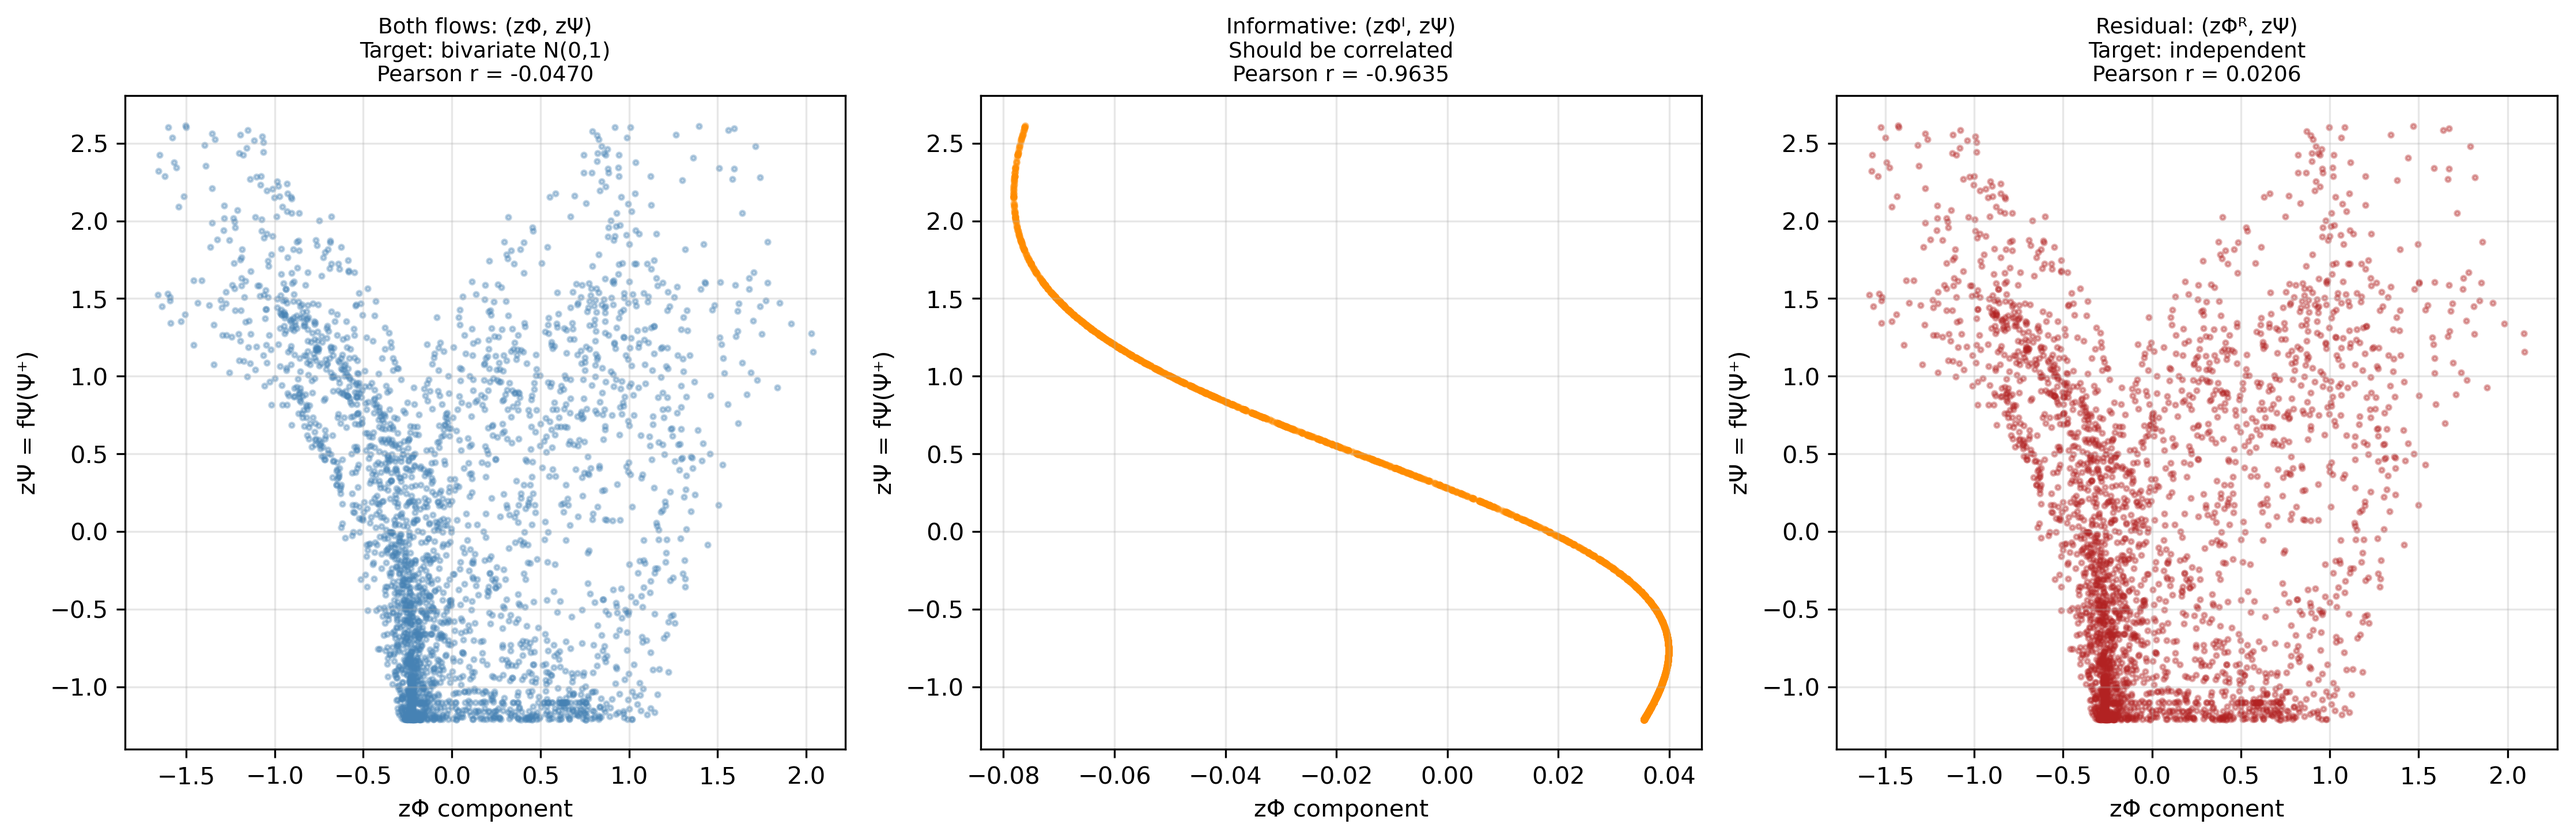
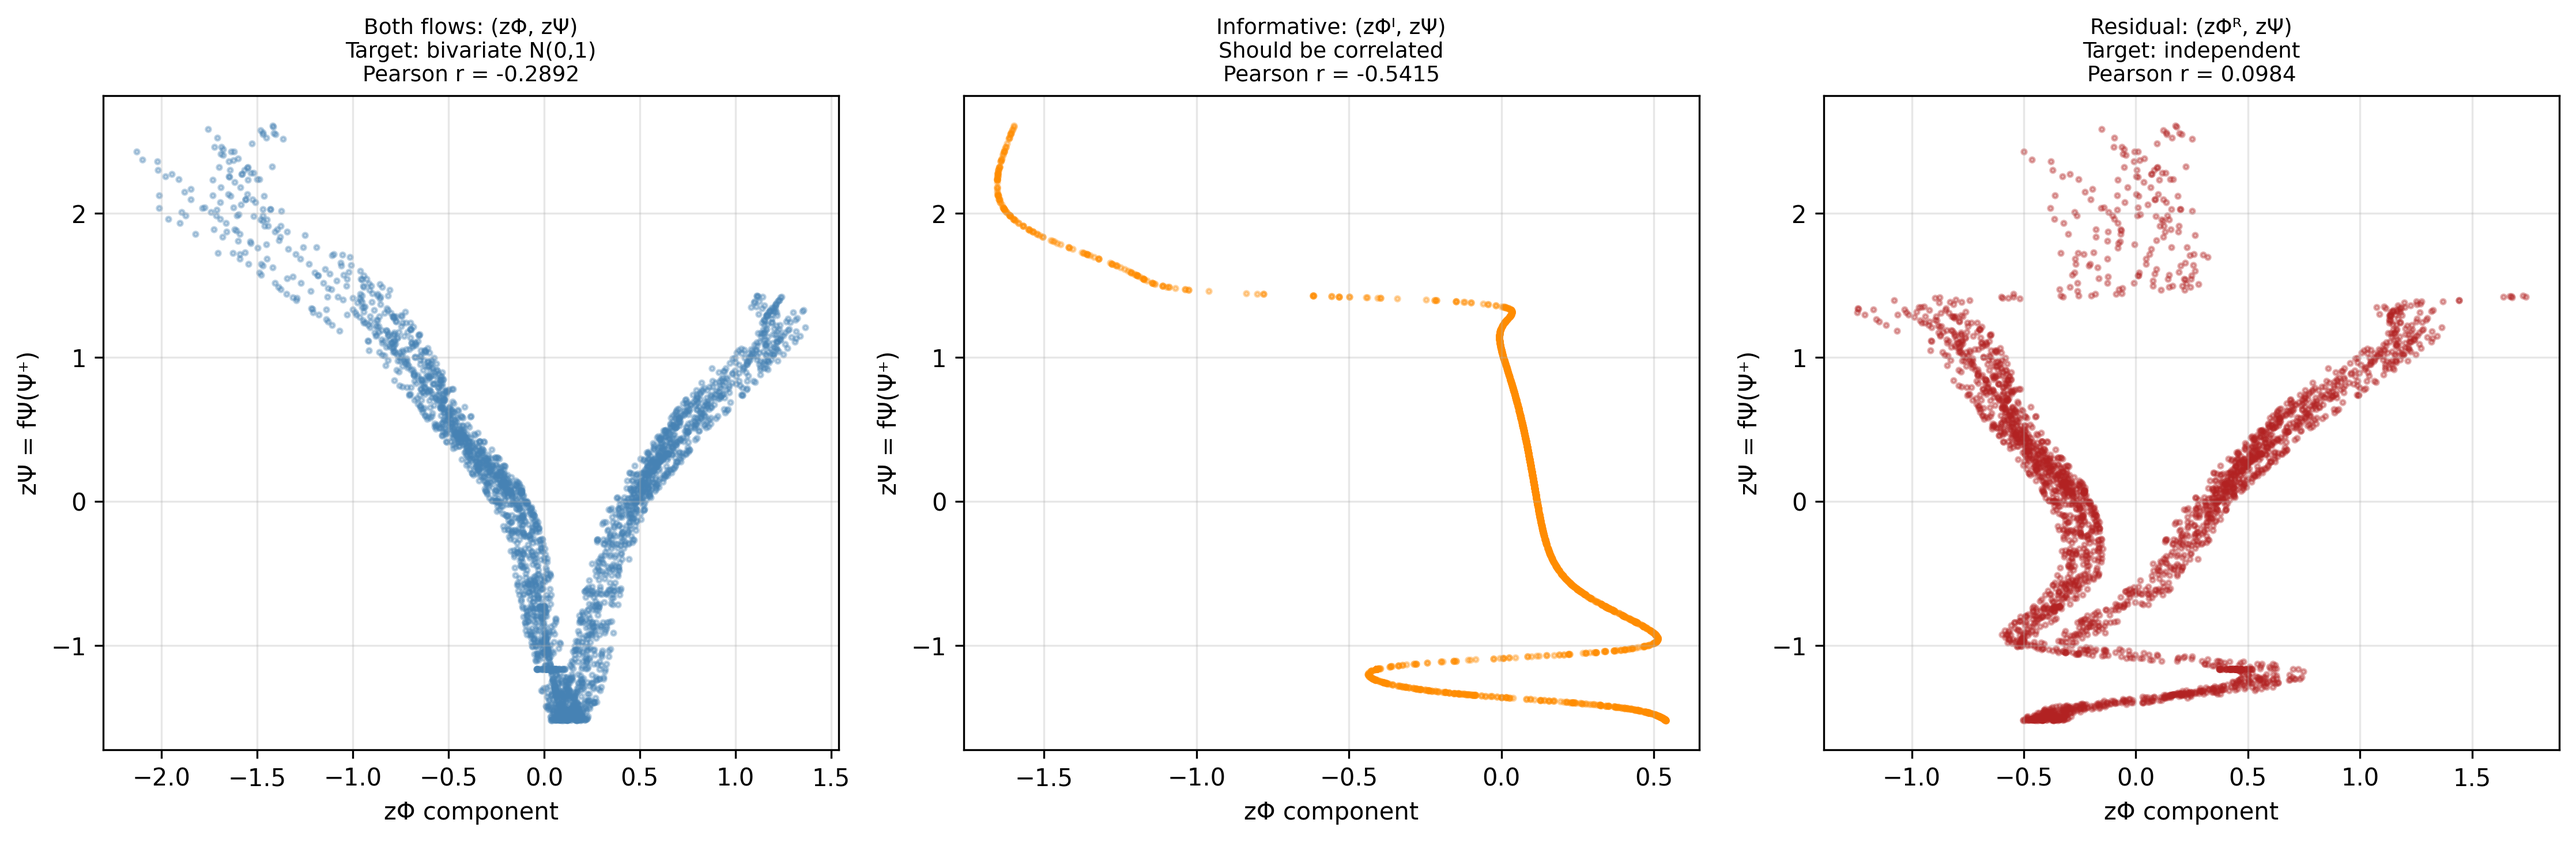
update latent guassian using toy problem in the paper

diff --git a/aind_decomposition_v2_glf.py b/aind_decomposition_v2_glf.py
@@ -20,13 +20,50 @@ import torch.nn as nn
 import torch.nn.functional as F
 import torch.optim as optim
 
-from toy_settings_v2 import (
+# from toy_settings_v2 import (
+#     phi_func,
+#     phi_informative_true,
+#     phi_residual_true,
+#     psi_plus_func,
+# )
+from toy_settings import (
     phi_func,
-    phi_informative_true,
-    phi_residual_true,
     psi_plus_func,
+    f_func,
+    g_func,
+    F_analytical,
 )
-from aind_decomposition_v2 import evaluate_decomposition
+
+from sklearn.feature_selection import mutual_info_regression
+from sklearn.metrics import mean_squared_error
+
+
+def evaluate_decomposition(Phi, Psi_plus, Phi_I, Phi_R, Phi_I_true=None):
+    """
+    Evaluate aIND decompositionF
+    -------
+    mutual_information : I(Phi_I; Phi_R) via sklearn  (lower = more independent)
+    residual_energy    : MSE(Phi, Phi_I)              (lower = smaller residual)
+    mi_phiI_psi        : MI(Phi_I, Psi+)              (higher = informative)
+    mi_phiR_psi        : MI(Phi_R, Psi+)              (lower  = non-informative)
+    gt_error           : MSE(Phi_I, Phi_I_true)       (lower = closer to ground truth)
+    """
+    metrics = {}
+    metrics["mutual_information"] = mutual_info_regression(
+        Phi_R.reshape(-1, 1), Phi_I, random_state=42
+    )[0]
+    metrics["residual_energy"] = mean_squared_error(Phi, Phi_I)
+    metrics["mi_phiI_psi"] = mutual_info_regression(
+        Phi_I.reshape(-1, 1), Psi_plus, random_state=42
+    )[0]
+    metrics["mi_phiR_psi"] = mutual_info_regression(
+        Phi_R.reshape(-1, 1), Psi_plus, random_state=42
+    )[0]
+    metrics["gt_error"] = (
+        mean_squared_error(Phi_I_true, Phi_I) if Phi_I_true is not None else float("nan")
+    )
+    metrics["total_loss"] = metrics["mutual_information"] + metrics["residual_energy"]
+    return metrics
 
 
 # ---------------------------------------------------------------------------
@@ -611,7 +648,7 @@ def visualize_decomposition(
     output_dir: str = "results_v2_glf",
     prefix:     str = "aind_v2_glf",
 ):
-    """2 x 3 field comparison with shared colorbar, plus scatter diagnostics."""
+    """2 x 3 field comparison with individual colorbars per subplot, plus scatter diagnostics."""
     os.makedirs(output_dir, exist_ok=True)
 
     if Phi_I.ndim == 1:
@@ -629,17 +666,15 @@ def visualize_decomposition(
         "\u03a6\u1d3f (Reconstructed Residual)\n\u03a6\u1d3f = \u03a6 \u2212 \u03a6\u1d35",
     ]
     fields = [Phi, Phi_I_true, Phi_I, Psi_plus, Phi_R_true, Phi_R]
-    vabs   = max(np.abs(f).max() for f in fields)
 
     for ax, field, title in zip(axes.flat, fields, titles):
         im = ax.imshow(field, origin="lower", cmap="RdBu",
-                       extent=[0, 1, 0, 2], aspect=0.5,
-                       vmin=-vabs, vmax=vabs)
+                       extent=[0, 1, 0, 2], aspect=0.5)
         ax.set_title(title, fontsize=10)
         ax.set_xlabel("x")
         ax.set_ylabel("y")
+        plt.colorbar(im, ax=ax, fraction=0.046)
 
-    fig.colorbar(im, ax=axes.ravel().tolist(), shrink=0.6, label="Field value")
     fig.tight_layout()
     fields_path = os.path.join(output_dir, f"{prefix}_fields.png")
     fig.savefig(fields_path, dpi=300, bbox_inches="tight")
@@ -705,11 +740,11 @@ def main(
     n_layers:       int   = 3,
     use_gating:     bool  = False,
     # Training
-    num_epochs:     int   = 2000,
-    lr:             float = 1e-3,
+    num_epochs:     int   = 1000,
+    lr:             float = 5e-3,
     # Loss weights
     lambda_pred:    float = 1.0,
-    lambda_ind:     float = 1.0,
+    lambda_ind:     float = 5.0,
     lambda_min:     float = 0.0,
     # HSIC
     hsic_sigma:     float = 1.0,
@@ -730,8 +765,10 @@ def main(
 
     Phi        = phi_func(X, Y, t)
     Psi_plus   = psi_plus_func(X, Y, t, deltaT=0.0, noise_std=1e-8)
-    Phi_I_true = phi_informative_true(X, Y, t)
-    Phi_R_true = phi_residual_true(X, Y, t)
+    # Phi_I_true = phi_informative_true(X, Y, t)
+    # Phi_R_true = phi_residual_true(X, Y, t)
+    Phi_I_true = f_func(X, Y, t)
+    Phi_R_true = g_func(X, Y, t)
 
     if verbose:
         print("=" * 60)
@@ -830,9 +867,9 @@ if __name__ == "__main__":
         n_layers=3,
         use_gating=False,
         num_epochs=2000,
-        lr=1e-3,
+        lr=7e-3,
         lambda_pred=1.0,
-        lambda_ind=1.0,
+        lambda_ind=5,
         lambda_min=0.0,
         adaptive_sigma=True,
         hsic_max_n=2000,
